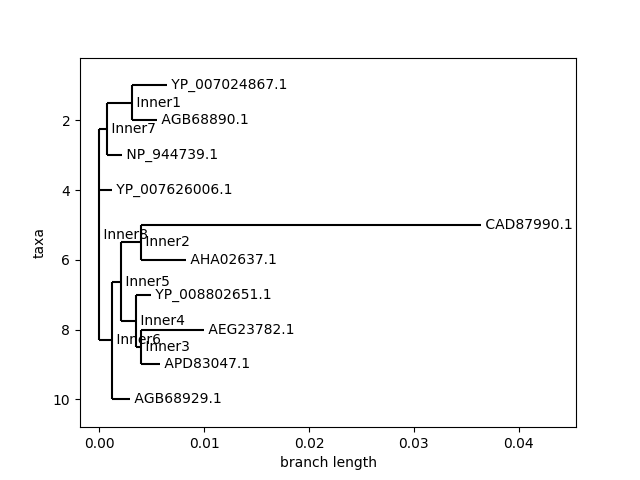
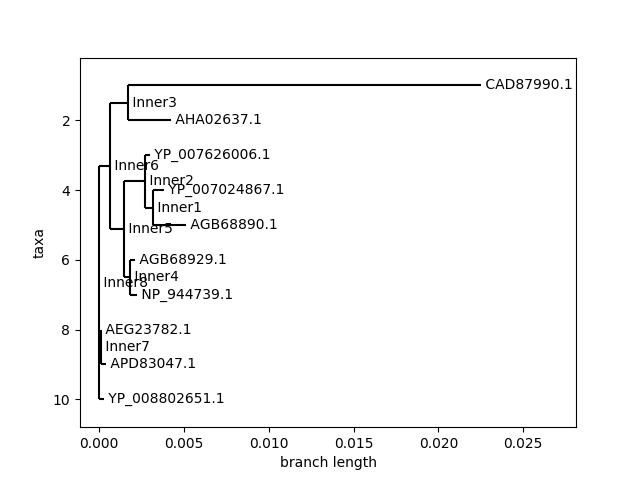
victor-alegre

diff --git a/bioFunc.py b/bioFunc.py
@@ -1,16 +1,10 @@
-#for BioPython
-from Bio.Blast import NCBIWWW
 from Bio.Seq import Seq
-from Bio import SeqIO
-from Bio.Alphabet import generic_dna, generic_protein, generic_rna
-from Bio import Entrez
-from Bio import SeqIO
-#for tree
+from Bio import SeqIO#for tree
 from Bio import AlignIO
 from Bio.Phylo.TreeConstruction import DistanceCalculator
 from Bio.Phylo.TreeConstruction import DistanceTreeConstructor
 import matplotlib
-matplotlib.use('Agg') #para resolver lo de la imagen
+matplotlib.use('Agg')
 from Bio import Phylo
 import pylab
 
@@ -65,7 +59,7 @@ def generar_arbol(file, especie, indice):
 	with open(file, "r") as aln:
 		alineamiento = AlignIO.read(aln, "clustal")
 
-	calculator = DistanceCalculator('identity')
+	calculator = DistanceCalculator('blosum62')
 	dm = calculator.get_distance(alineamiento)
 
 	constructor = DistanceTreeConstructor(calculator)
